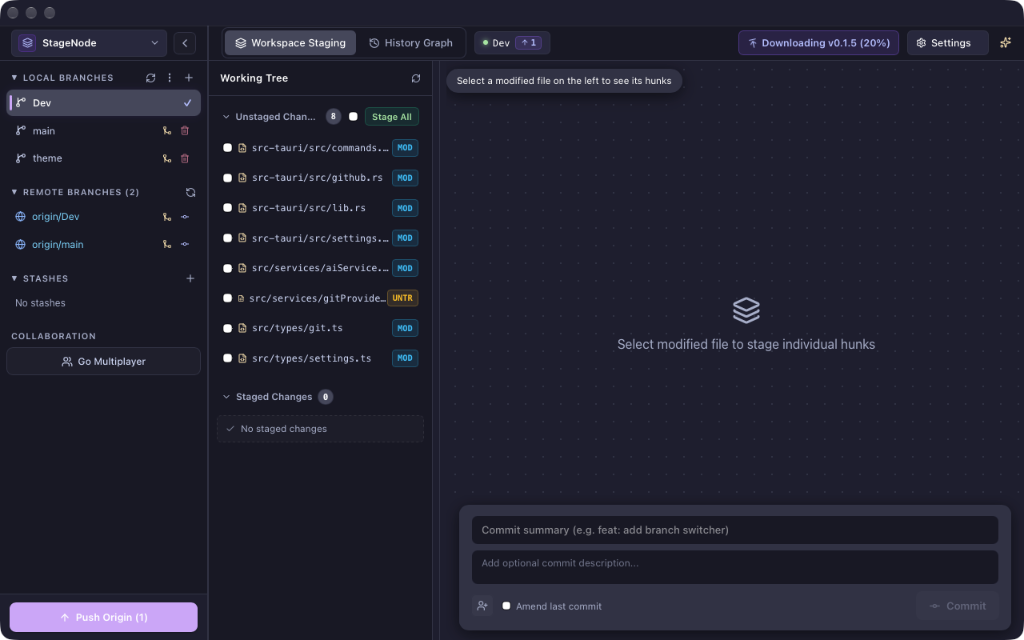
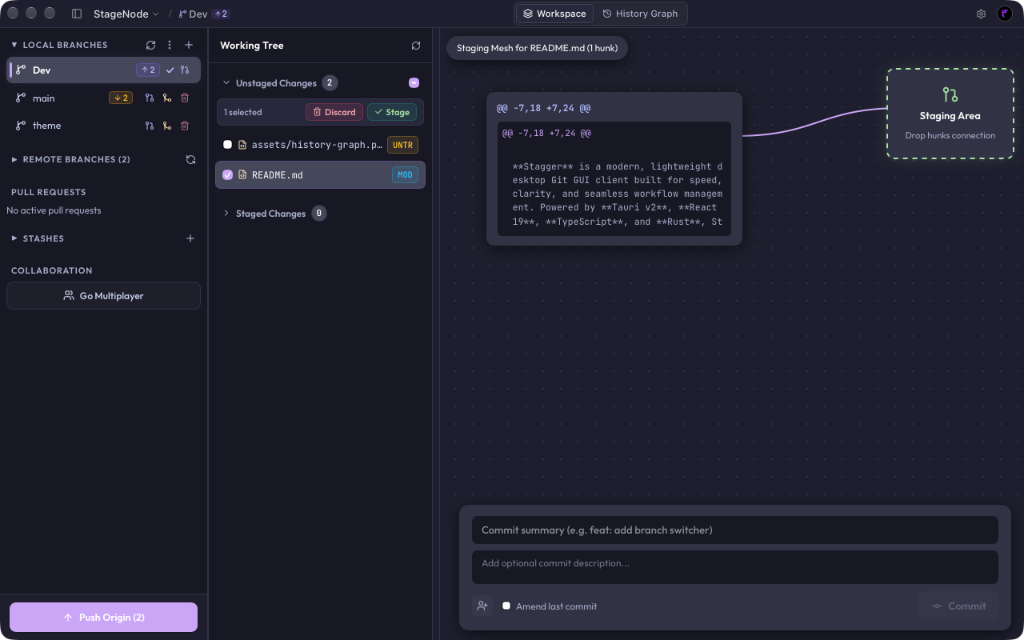
update: updated README file and release build for dev and prod

diff --git a/README.md b/README.md
@@ -7,18 +7,24 @@
 
 **Stagger** is a modern, lightweight desktop Git GUI client built for speed, clarity, and seamless workflow management. Powered by **Tauri v2**, **React 19**, **TypeScript**, and **Rust**, Stagger provides a visual workspace for staging changes, switching branches, stashing work, and creating pull requests without leaving your desktop interface.
 
-![Stagger Preview](assets/screenshot.png)
+### 🖥 Workspace Staging
+![Stagger Workspace Staging](assets/screenshot.png)
+
+### 📊 Interactive History Graph
+![Stagger History Graph](assets/history-graph.png)
 
 ---
 
 ## ✨ Features
 
-- **⚡ Granular Git Staging**: Stage, unstage, discard, and view diffs for modified or untracked files with ease.
+- **⚡ Granular Staging & Interactive Mesh**: Stage, unstage, discard, and connect individual diff hunks visually using the node-based staging canvas.
+- **📊 Interactive History Graph**: Visualize commit topology DAG with branch lanes, merge tracks, release tags, commit search (by message, author, SHA, branch, or stash), and deep commit inspection with one-click actions (revert, cherry-pick, branch, tag).
 - **🌿 Branch Management**: Create, checkout, and merge branches smoothly with built-in protections and safety checks.
 - **🛡 Smart Auto-Stashing**: Safely switch branches without losing uncommitted work thanks to automatic worktree stashing.
 - **📦 Stash Management**: Save, view, pop, apply, or drop stashes directly within the application.
 - **🚀 Pull Request Integration**: Draft and initiate GitHub/GitLab pull requests directly from your workspace.
-- **🎨 Modern Theme**: Premium aesthetic with intuitive navigation, keyboard shortcuts, and responsive layouts.
+- **👥 Real-Time Collaboration**: Built-in multiplayer mode for collaborating on repositories.
+- **🎨 Modern Theming**: Premium aesthetic with Catppuccin Mocha and Latte themes, intuitive navigation, keyboard shortcuts, and responsive layouts.
 
 ---
 
